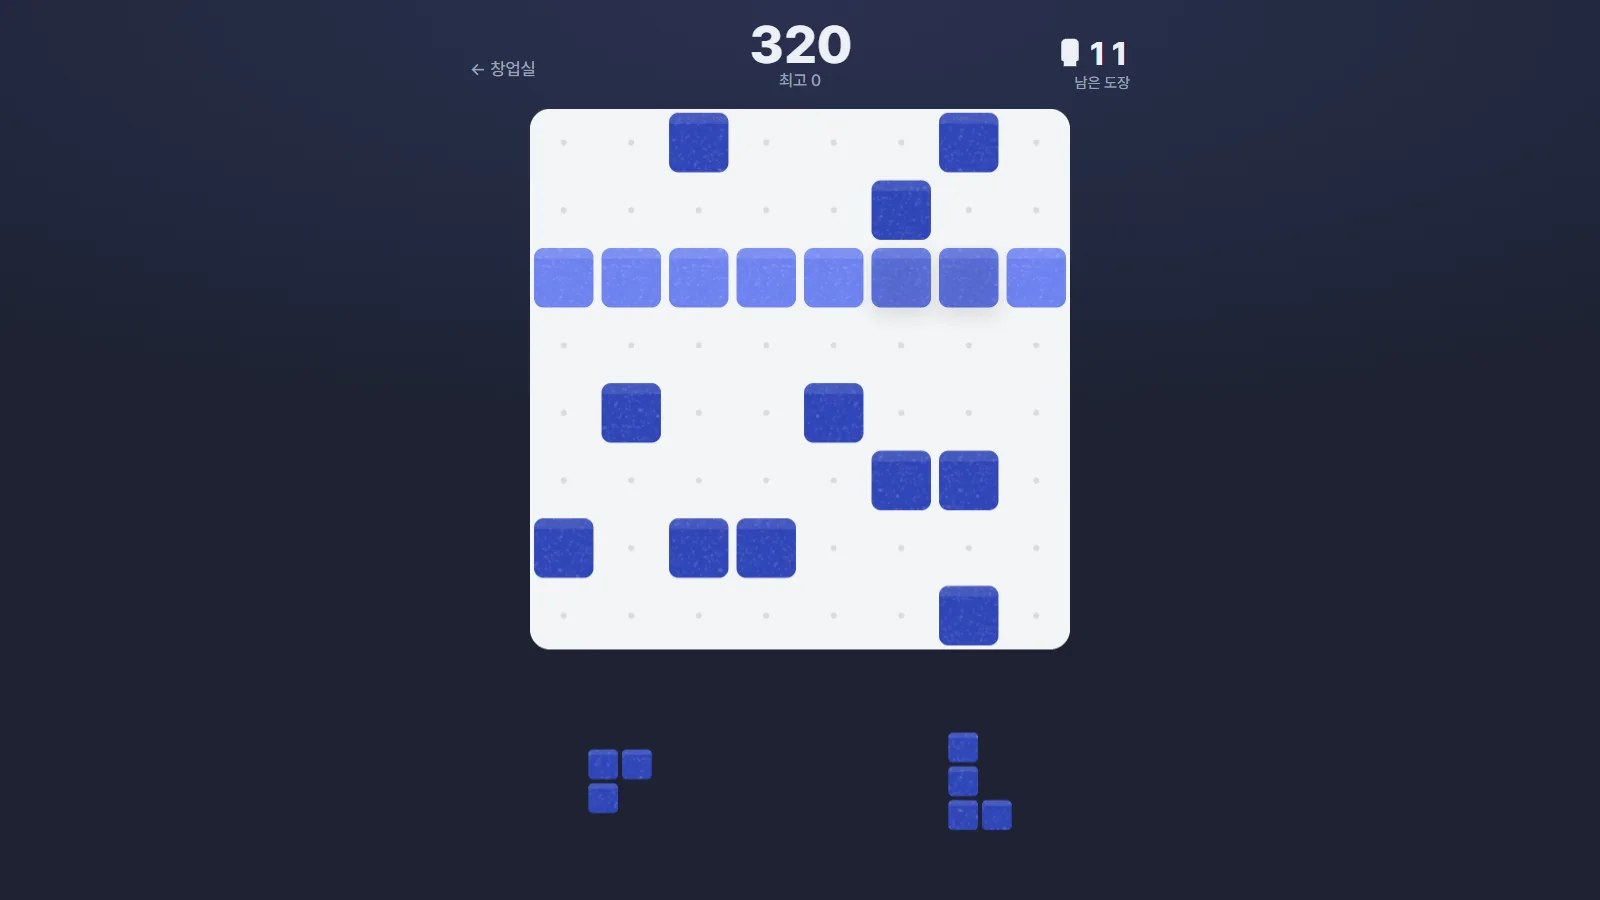
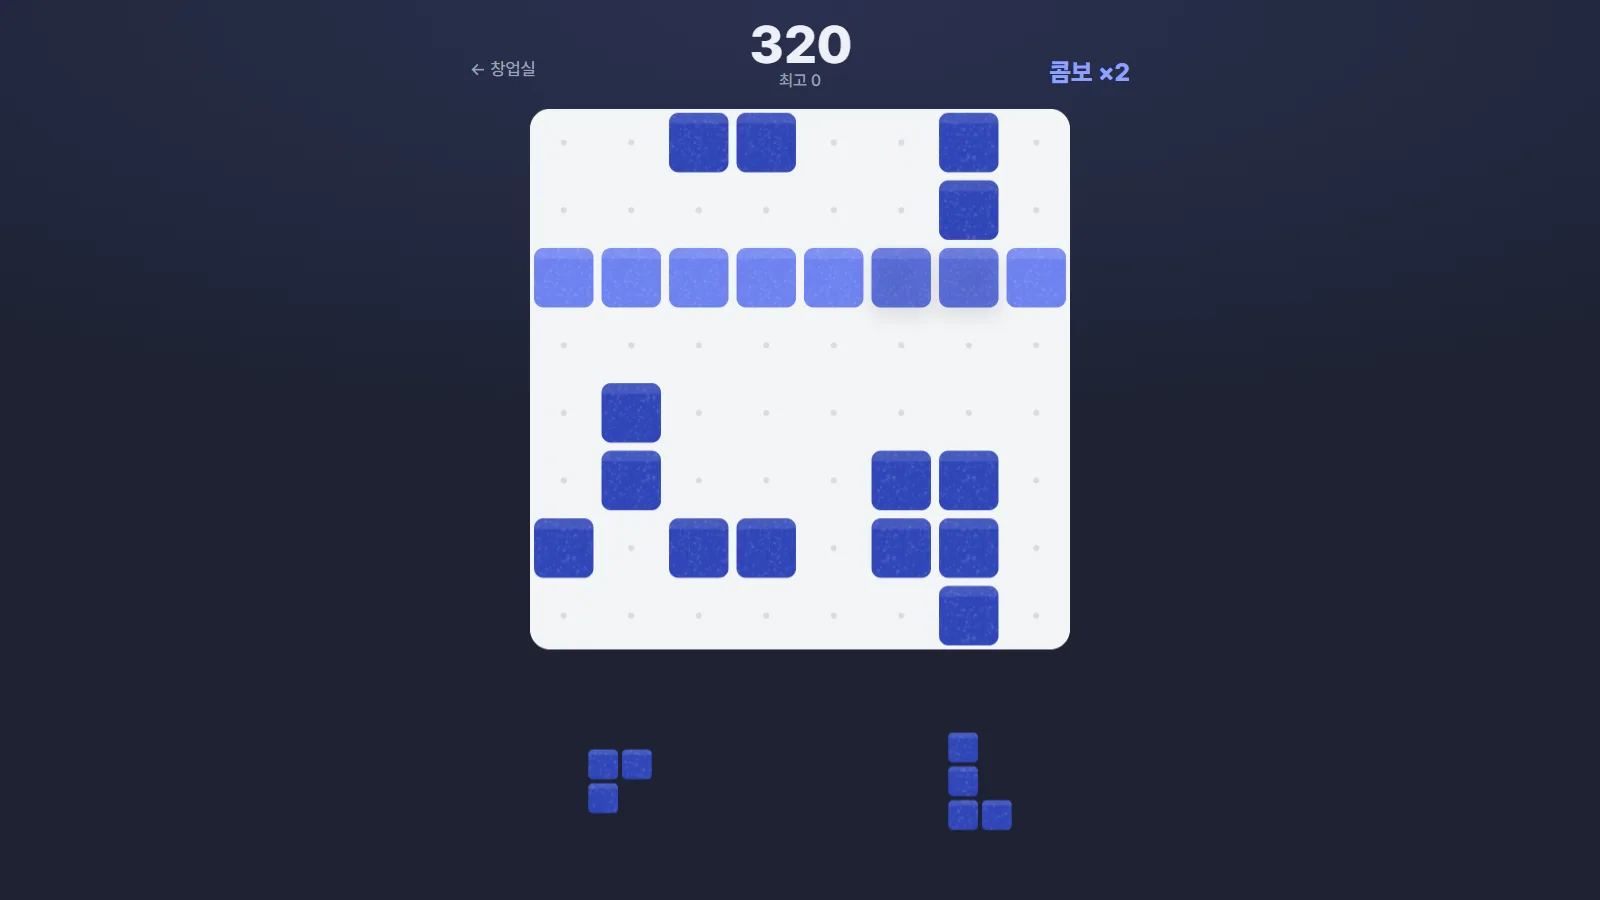
게임 데모 규칙 고침: 데칼코마니는 두 쌍 이상만 터지고 빗나가면 -3초(막 긋기 손해), 뒤집기 도장은 섞인 자리엔 못 찍고 찍을 곳이 없으면 끝 + 처음 두 수 따라 하기 + 콤보 점수 표시

diff --git a/stamp/index.html b/stamp/index.html
@@ -4,10 +4,10 @@
 <meta charset="utf-8">
 <meta name="viewport" content="width=device-width,initial-scale=1,viewport-fit=cover">
 <title>뒤집기 도장</title>
-<meta name="description" content="찍으면 칸이 뒤집히는 도장으로 한 줄을 잉크로 채워 지우는 퍼즐">
+<meta name="description" content="빈칸에 찍으면 잉크, 잉크에 찍으면 지워지는 도장으로 줄을 채우는 퍼즐. 찍을 곳이 없으면 끝">
 <link rel="stylesheet" href="https://cdn.jsdelivr.net/gh/orioncactus/pretendard@v1.3.9/dist/web/variable/pretendardvariable-dynamic-subset.min.css">
 <style>
-:root { --bg: #1d2232; --bg2: #262c40; --paper: #f3f4f6; --ink: #2f45b8; --on: #eef0f6; --soft: #9aa1b6; --red: #e0574c }
+:root { --bg: #1d2232; --paper: #f3f4f6; --ink: #2f45b8; --on: #eef0f6; --soft: #9aa1b6; --red: #e0574c }
 * { box-sizing: border-box }
 html, body { height: 100% }
 body { margin: 0; background: radial-gradient(120% 70% at 50% 0, #2a3150, var(--bg) 70%); color: var(--on); font: 500 16px/1.4 "Pretendard Variable", Pretendard, system-ui, sans-serif; -webkit-font-smoothing: antialiased; overflow: hidden; -webkit-user-select: none; user-select: none }
@@ -18,17 +18,14 @@ body { margin: 0; background: radial-gradient(120% 70% at 50% 0, #2a3150, var(--
 .score { text-align: center; line-height: 1 }
 .score b { display: block; font-weight: 800; font-size: 42px; font-variant-numeric: tabular-nums; letter-spacing: -.02em }
 .score span { font-size: 13px; color: var(--soft) }
-.left { justify-self: end; text-align: right; line-height: 1 }
-.left b { display: inline-flex; align-items: center; gap: 6px; font-size: 26px; font-weight: 800; font-variant-numeric: tabular-nums }
-.left b::before { content: ""; width: 14px; height: 18px; border-radius: 4px 4px 2px 2px; background: var(--on); box-shadow: 0 6px 0 -2px var(--on); transform: translateY(-3px) }
-.left span { display: block; font-size: 12px; color: var(--soft); margin-top: 4px }
-.left.low b { color: var(--red) } .left.low b::before { background: var(--red); box-shadow: 0 6px 0 -2px var(--red) }
-.left .gain { position: absolute; right: 100%; margin-right: 10px; top: 2px; font-size: 22px; font-weight: 800; color: #8fa2ff; animation: gain .8s forwards; pointer-events: none }
-@keyframes gain { to { transform: translateY(-18px); opacity: 0 } }
+.combo { justify-self: end; font-weight: 800; font-size: 20px; color: #8fa2ff; opacity: 0; transition: opacity .25s, transform .25s; transform: scale(.8) }
+.combo.on { opacity: 1; transform: none }
 .stage { flex: 1; min-height: 0; display: grid; place-items: center }
 .board { position: relative }
 canvas { display: block; touch-action: none }
-.ov { position: absolute; inset: 0 0 auto; display: grid; place-content: center; justify-items: center; text-align: center; gap: 14px; padding: 24px; background: rgb(29 34 50 / .8); backdrop-filter: blur(6px); -webkit-backdrop-filter: blur(6px); border-radius: 16px; transition: opacity .3s }
+.tip { position: absolute; left: 50%; top: 12px; transform: translateX(-50%); width: max-content; max-width: calc(100% - 24px); padding: 9px 16px; border-radius: 20px; background: var(--bg); color: var(--on); font-weight: 700; font-size: 15px; text-align: center; box-shadow: 0 8px 20px -8px rgb(0 0 0 / .5); pointer-events: none; transition: opacity .25s }
+.tip[hidden] { display: block; opacity: 0 }
+.ov { position: absolute; inset: 0 0 auto; display: grid; place-content: center; justify-items: center; text-align: center; gap: 14px; padding: 24px; background: rgb(29 34 50 / .84); backdrop-filter: blur(6px); -webkit-backdrop-filter: blur(6px); border-radius: 16px; transition: opacity .3s }
 .ov[hidden] { display: grid; opacity: 0; pointer-events: none }
 .ov h1 { margin: 0; font-weight: 800; font-size: clamp(40px, 11vw, 58px); letter-spacing: -.04em; line-height: 1 }
 .ov h1 span { display: inline-block; padding: 0 .12em; color: var(--paper); background: var(--ink); border-radius: 8px; transform: rotate(-4deg) }
@@ -37,6 +34,7 @@ canvas { display: block; touch-action: none }
 .ov button { margin-top: 10px; min-width: 160px; min-height: 52px; border: 0; border-radius: 26px; background: var(--paper); color: var(--bg); font: 800 17px Pretendard, system-ui, sans-serif; cursor: pointer; transition: transform .15s }
 .ov button:active { transform: scale(.96) }
 .ov button:focus-visible { outline: 2px solid var(--on); outline-offset: 3px }
+.ov .link { margin: 0; min-height: 0; min-width: 0; background: none; color: var(--soft); font-weight: 600; font-size: 14px; text-decoration: underline; text-underline-offset: 4px }
 </style>
 </head>
 <body>
@@ -44,42 +42,44 @@ canvas { display: block; touch-action: none }
   <header class="top">
     <a class="back" href="../">← 창업실</a>
     <div class="score"><b id="score">0</b><span id="best">최고 0</span></div>
-    <div class="left" id="left" style="position:relative"><b id="stamps">15</b><span>남은 도장</span></div>
+    <div class="combo" id="combo"></div>
   </header>
   <div class="stage" id="stage"><div class="board">
     <canvas id="cv" aria-label="뒤집기 도장 판"></canvas>
-    <div class="ov" id="ov">
-      <h1>뒤집기 <span>도장</span></h1>
-      <p>찍은 칸은 뒤집혀요. 한 줄을 잉크로 채우면 지워지고 도장 2개를 돌려받아요</p>
-      <button id="go">시작</button>
-    </div>
+    <div class="tip" id="tip" hidden></div>
+    <div class="ov" id="ov"></div>
   </div></div>
 </main>
 <script>
-const N = 8, START = 15, GIVE = 2;
-const C = { paper: "#f3f4f6", dot: "#d8dbe3", ink: "#2f45b8", inkHi: "#6d82f0" };
+const N = 8;
+const C = { paper: "#f3f4f6", dot: "#d8dbe3", ink: "#2f45b8", inkHi: "#6d82f0", red: "#e0574c" };
 const $ = id => document.getElementById(id);
 const cv = $("cv"), ctx = cv.getContext("2d");
 
-// 조각: 기본 모양 14개를 돌려서 겹치지 않는 33개
-const BASE = [[[0,0]],[[0,0],[1,0]],[[0,0],[1,0],[2,0]],[[0,0],[1,0],[2,0],[3,0]],[[0,0],[1,0],[2,0],[3,0],[4,0]],
+// 조각: 기본 모양 13개(한 칸짜리 없음)를 돌려서 겹치지 않는 것만
+const BASE = [[[0,0],[1,0]],[[0,0],[1,0],[2,0]],[[0,0],[1,0],[2,0],[3,0]],[[0,0],[1,0],[2,0],[3,0],[4,0]],
   [[0,0],[1,0],[0,1],[1,1]],[[0,0],[1,0],[2,0],[0,1],[1,1],[2,1],[0,2],[1,2],[2,2]],[[0,0],[1,0],[2,0],[0,1],[1,1],[2,1]],
   [[0,0],[0,1],[1,1]],[[0,0],[0,1],[0,2],[1,2]],[[1,0],[1,1],[1,2],[0,2]],[[0,0],[1,0],[2,0],[1,1]],[[1,0],[2,0],[0,1],[1,1]],[[0,0],[1,0],[1,1],[2,1]]];
 const norm = c => { const mx = Math.min(...c.map(p => p[0])), my = Math.min(...c.map(p => p[1])); return c.map(([x, y]) => [x - mx, y - my]).sort((a, b) => a[1] - b[1] || a[0] - b[0]) };
 const SHAPES = [], seen = new Set();
 for (const b of BASE) { let c = b; for (let r = 0; r < 4; r++) { c = norm(c.map(([x, y]) => [-y, x])); const k = JSON.stringify(c); if (!seen.has(k)) { seen.add(k); SHAPES.push(c) } } }
 const wOf = s => Math.max(...s.map(p => p[0])) + 1, hOf = s => Math.max(...s.map(p => p[1])) + 1;
+const rndShape = () => SHAPES[Math.random() * SHAPES.length | 0];
 
-let grid, hand, score = 0, stamps = START, playing = false, best = 0;
-let S = 40, TRAY = 0, drag = null, fx = [], pops = [], flash = [];
+let grid, hand, score = 0, combo = 0, since = 0, playing = false, best = 0, tut = 0, target = null;
+let S = 40, TRAY = 0, drag = null, fx = [], pops = [], flash = [], texts = [];
 try { best = +localStorage.getItem("stamp-best") || 0 } catch {}
 $("best").textContent = "최고 " + best;
 
-const newHand = () => hand = [0, 1, 2].map(() => SHAPES[Math.random() * SHAPES.length | 0]);
-function newBoard() {
-  grid = new Array(N * N).fill(0);
-  for (let k = 0; k < 14; k++) grid[Math.random() * N * N | 0] = 1;
-  newHand();
+// 규칙: 전부 빈칸이거나 전부 잉크인 자리에만 찍을 수 있다
+function canPlace(s, gx, gy) {
+  if (gx < 0 || gy < 0 || gx + wOf(s) > N || gy + hOf(s) > N) return false;
+  const v = grid[(gy + s[0][1]) * N + gx + s[0][0]];
+  return s.every(([x, y]) => grid[(gy + y) * N + gx + x] === v);
+}
+function fitsAnywhere(s) {
+  for (let gy = 0; gy <= N - hOf(s); gy++) for (let gx = 0; gx <= N - wOf(s); gx++) if (canPlace(s, gx, gy)) return true;
+  return false;
 }
 // 이 자리에 찍으면: 뒤집힌 판과 지워질 줄
 function tryPlace(s, gx, gy) {
@@ -94,6 +94,7 @@ function tryPlace(s, gx, gy) {
   return { g, rows, cols };
 }
 
+const LINE = [0, 10, 30, 60, 100, 150, 210];
 function place(i, gx, gy) {
   const s = hand[i], { g, rows, cols } = tryPlace(s, gx, gy), now = performance.now();
   for (const [x, y] of s) fx.push({ x: gx + x, y: gy + y, to: g[(gy + y) * N + gx + x], t0: now });
@@ -104,26 +105,27 @@ function place(i, gx, gy) {
   rows.forEach(r => flash.push({ r, t0: now + 80 })); cols.forEach(c => flash.push({ c, t0: now + 80 }));
   grid = g; hand[i] = null;
   const n = rows.length + cols.length;
-  score += s.length + n * n * 40;
-  stamps -= 1;
+  let pts = s.length;
   if (n) {
-    const gain = n * GIVE + (n > 1 ? n - 1 : 0);
-    stamps += gain;
-    const el = document.createElement("i"); el.className = "gain"; el.textContent = "+" + gain;
-    $("left").append(el); setTimeout(() => el.remove(), 800);
+    combo++; since = 0;
+    const got = LINE[Math.min(n, 6)] * combo;
+    pts += got;
+    let cx = 0, cy = 0; cleared.forEach(k => { cx += k % N; cy += k / N | 0 });
+    texts.push({ x: cx / cleared.size, y: cy / cleared.size, s: "+" + got, sub: combo > 1 ? "콤보 ×" + combo : n > 1 ? n + "줄" : "", t0: now + 150 });
     try { navigator.vibrate && navigator.vibrate(n > 1 ? [20, 40, 30] : 20) } catch {}
-  }
+  } else if (++since >= 3) combo = 0;
+  score += pts;
   $("score").textContent = score;
-  $("stamps").textContent = stamps;
-  $("left").classList.toggle("low", stamps <= 3);
-  if (hand.every(h => !h)) newHand();
-  if (stamps <= 0) setTimeout(end, 650);
+  $("combo").textContent = "콤보 ×" + combo;
+  $("combo").classList.toggle("on", combo > 1);
+  if (tut) return tutNext();
+  if (hand.every(h => !h)) hand = [rndShape(), rndShape(), rndShape()];
+  if (!hand.some(h => h && fitsAnywhere(h))) { playing = false; setTimeout(end, 900) }
 }
 
 // 그리기
 let grain;
 function makeGrain() {
-  // 도장 잉크 결: 고르지 않은 점
   const c = document.createElement("canvas"); c.width = c.height = 64;
   const g = c.getContext("2d");
   for (let i = 0; i < 420; i++) { g.fillStyle = `rgb(255 255 255 / ${Math.random() * .16})`; g.fillRect(Math.random() * 64, Math.random() * 64, 1.4, 1.4) }
@@ -138,6 +140,7 @@ function inkCell(x, y, s, a = 1, k = 1, col = C.ink) {
   ctx.fillStyle = "rgb(255 255 255 / .1)"; rr(x + o, y + o, w, w * .18, [s * .14, s * .14, 0, 0]); ctx.fill();
   ctx.globalAlpha = 1;
 }
+// 끌고 있는 조각이 놓일 칸(판 밖이면 null)과 놓을 수 있는지
 function hoverCell() {
   if (!drag) return null;
   const s = hand[drag.i], w = wOf(s), h = hOf(s);
@@ -145,15 +148,15 @@ function hoverCell() {
   let gx = Math.round(left / S), gy = Math.round(top / S);
   if (gx < -1 || gy < -1 || gx > N - w + 1 || gy > N - h + 1) return null;
   gx = Math.max(0, Math.min(N - w, gx)); gy = Math.max(0, Math.min(N - h, gy));
-  return { gx, gy, left, top };
+  const ok = canPlace(s, gx, gy) && (!target || (gx === target.gx && gy === target.gy));
+  return { gx, gy, ok };
 }
 function slotRect(i) { const w = N * S / 3; return [i * w, N * S + S * .5, w, TRAY] }
 function draw(now) {
   const W = N * S;
   ctx.clearRect(0, 0, cv.width, cv.height);
-  // 종이 판
   ctx.fillStyle = C.paper; rr(0, 0, W, W, 16); ctx.fill();
-  const hv = hoverCell(), pre = hv && tryPlace(hand[drag.i], hv.gx, hv.gy);
+  const hv = hoverCell(), pre = hv && hv.ok && tryPlace(hand[drag.i], hv.gx, hv.gy);
   const willClear = new Set();
   if (pre) { pre.rows.forEach(r => { for (let j = 0; j < N; j++) willClear.add(r * N + j) }); pre.cols.forEach(c => { for (let j = 0; j < N; j++) willClear.add(j * N + c) }) }
   for (let y = 0; y < N; y++) for (let x = 0; x < N; x++) {
@@ -168,9 +171,14 @@ function draw(now) {
     else if (grid[k]) inkCell(X, Y, S);
     else { ctx.fillStyle = C.dot; ctx.beginPath(); ctx.arc(X + S / 2, Y + S / 2, Math.max(1.5, S * .045), 0, 7); ctx.fill() }
   }
-  // 놓을 자리 미리보기: 잉크가 될 칸은 옅은 잉크, 하얗게 될 칸은 구멍
-  if (pre) for (const [x, y] of hand[drag.i]) {
+  // 따라 하기: 찍을 자리를 깜빡여 보여 준다
+  if (target && !drag) {
+    ctx.strokeStyle = `rgb(224 87 76 / ${.55 + .45 * Math.sin(now / 180)})`; ctx.lineWidth = 3;
+    for (const [x, y] of hand[target.i] || []) { rr((target.gx + x) * S + 3, (target.gy + y) * S + 3, S - 6, S - 6, S * .16); ctx.stroke() }
+  }
+  if (hv) for (const [x, y] of hand[drag.i]) {
     const X = (hv.gx + x) * S, Y = (hv.gy + y) * S;
+    if (!hv.ok) { ctx.strokeStyle = C.red; ctx.lineWidth = 3; rr(X + 4, Y + 4, S - 8, S - 8, S * .14); ctx.stroke(); continue }
     if (willClear.has((hv.gy + y) * N + hv.gx + x)) continue;
     if (grid[(hv.gy + y) * N + hv.gx + x]) { ctx.fillStyle = C.paper; rr(X + S * .22, Y + S * .22, S * .56, S * .56, S * .1); ctx.fill() }
     else inkCell(X, Y, S, .38);
@@ -184,11 +192,22 @@ function draw(now) {
   pops = pops.filter(p => now - p.t0 < 360);
   for (const p of pops) { const t = (now - p.t0) / 360; if (t < 0) { inkCell(p.x * S, p.y * S, S); continue } inkCell(p.x * S, p.y * S - t * S * .3, S, 1 - t, 1 + .3 * t) }
   fx = fx.filter(e => now - e.t0 < 260);
-  // 조각 칸
+  texts = texts.filter(t => now - t.t0 < 1000);
+  for (const t of texts) {
+    const k = (now - t.t0) / 1000; if (k < 0) continue;
+    const X = Math.min(W - S * 1.4, Math.max(S * 1.4, (t.x + .5) * S)), Y = (t.y + .5) * S - k * S * .6;
+    ctx.globalAlpha = k < .7 ? 1 : 1 - (k - .7) / .3;
+    ctx.textAlign = "center"; ctx.textBaseline = "middle"; ctx.lineJoin = "round";
+    ctx.font = `800 ${S * .72}px Pretendard, system-ui, sans-serif`;
+    ctx.lineWidth = 6; ctx.strokeStyle = C.paper; ctx.strokeText(t.s, X, Y); ctx.fillStyle = C.ink; ctx.fillText(t.s, X, Y);
+    if (t.sub) { ctx.font = `800 ${S * .4}px Pretendard, system-ui, sans-serif`; ctx.strokeText(t.sub, X, Y + S * .6); ctx.fillStyle = C.red; ctx.fillText(t.sub, X, Y + S * .6) }
+    ctx.globalAlpha = 1;
+  }
+  // 조각 칸: 어디에도 못 찍는 조각은 흐리게
   for (let i = 0; i < 3; i++) {
     const s = hand[i]; if (!s || (drag && drag.i === i)) continue;
-    const [sx, sy, sw, sh] = slotRect(i), cs = S * .5, w = wOf(s) * cs, h = hOf(s) * cs;
-    for (const [x, y] of s) inkCell(sx + (sw - w) / 2 + x * cs, sy + (sh - h) / 2 + y * cs, cs);
+    const [sx, sy, sw, sh] = slotRect(i), cs = S * .5, w = wOf(s) * cs, h = hOf(s) * cs, a = fitsAnywhere(s) ? 1 : .28;
+    for (const [x, y] of s) inkCell(sx + (sw - w) / 2 + x * cs, sy + (sh - h) / 2 + y * cs, cs, a);
   }
   if (drag) {
     const s = hand[drag.i], w = wOf(s), h = hOf(s);
@@ -230,25 +249,65 @@ cv.addEventListener("pointerup", () => {
   if (!drag) return;
   const hv = hoverCell(), i = drag.i;
   drag = null;
-  if (hv && playing) place(i, hv.gx, hv.gy);
+  if (hv && hv.ok && playing) place(i, hv.gx, hv.gy);
 });
 cv.addEventListener("pointercancel", () => drag = null);
 
+// 처음 한 번: 두 수를 따라 해 보며 규칙을 익힌다
+const H3 = [[0, 0], [1, 0], [2, 0]], O2 = [[0, 0], [1, 0], [0, 1], [1, 1]];
+function tip(t) { $("tip").textContent = t || ""; $("tip").hidden = !t }
+function tutStep(n) {
+  tut = n; grid = new Array(N * N).fill(0);
+  if (n === 1) {
+    [0, 1, 5, 6, 7].forEach(x => grid[4 * N + x] = 1);
+    hand = [null, H3, null]; target = { i: 1, gx: 2, gy: 4 };
+    tip("빈칸에 찍으면 잉크. 한 줄을 채우면 지워져요");
+  } else {
+    [[2, 2], [3, 2], [2, 3], [3, 3], [5, 5], [6, 5], [5, 6], [6, 6]].forEach(([x, y]) => grid[y * N + x] = 1);
+    hand = [null, O2, null]; target = { i: 1, gx: 2, gy: 2 };
+    tip("잉크 위에 찍으면 거꾸로 지워져요");
+  }
+}
+function tutNext() {
+  if (tut === 1) return setTimeout(() => tutStep(2), 900);
+  tut = 0; target = null; playing = false;
+  try { localStorage.setItem("stamp-tut", 1) } catch {}
+  setTimeout(() => {
+    tip("");
+    menu(`<p style="color:var(--on);font-weight:700">빈칸과 잉크가 섞인 자리엔 못 찍어요.<br>찍을 곳이 없으면 끝나요.</p><button id="go">시작</button>`);
+  }, 900);
+}
+
+function reset() {
+  score = 0; combo = 0; since = 0; fx = []; pops = []; flash = []; texts = [];
+  $("score").textContent = 0; $("combo").classList.remove("on");
+}
 function start() {
-  newBoard(); score = 0; stamps = START; fx = []; pops = []; flash = [];
-  $("score").textContent = 0; $("stamps").textContent = stamps; $("left").classList.remove("low");
+  reset(); tut = 0; target = null; tip("");
+  grid = new Array(N * N).fill(0);
+  hand = [rndShape(), rndShape(), rndShape()];
   $("ov").hidden = true; playing = true;
+}
+function lesson() { reset(); tutStep(1); $("ov").hidden = true; playing = true }
+function menu(html) {
+  $("ov").innerHTML = html; $("ov").hidden = false;
+  $("go").onclick = start;
+  if ($("how")) $("how").onclick = lesson;
 }
 function end() {
   playing = false; drag = null;
   if (score > best) { best = score; try { localStorage.setItem("stamp-best", best) } catch {} }
   $("best").textContent = "최고 " + best;
-  $("ov").innerHTML = `<p>점수</p><div class="big">${score}</div><p>최고 ${best}</p><button id="go">다시</button>`;
-  $("go").onclick = start;
-  $("ov").hidden = false;
+  menu(`<p style="color:var(--on);font-weight:700">찍을 곳이 없어요</p><div class="big">${score}</div><p>최고 ${best}</p><button id="go">다시</button>`);
 }
-$("go").onclick = start;
-size(); newBoard(); requestAnimationFrame(loop);
+
+let learned = false;
+try { learned = !!localStorage.getItem("stamp-tut") } catch {}
+size();
+grid = new Array(N * N).fill(0); hand = [null, null, null];
+menu(`<h1>뒤집기 <span>도장</span></h1><p>빈칸에 찍으면 잉크, 잉크에 찍으면 지워져요</p><button id="go">시작</button>${learned ? '<button class="link" id="how">방법 다시 보기</button>' : ""}`);
+if (!learned) $("go").onclick = lesson;
+requestAnimationFrame(loop);
 </script>
 </body>
 </html>

diff --git a/decal/index.html b/decal/index.html
@@ -51,13 +51,13 @@ canvas { display: block; background: var(--paper); border-radius: 20px; box-shad
     <canvas id="cv" aria-label="데칼코마니 판"></canvas>
     <div class="ov" id="ov">
       <h1>데칼<b>코마니</b></h1>
-      <p id="msg">선을 그어 반으로 접으면, 똑같이 겹치는 색이 터져요</p>
+      <p id="msg">선을 그어 반으로 접었을 때 같은 색이 두 쌍 이상 겹치면 터져요. 많이 겹칠수록 점수가 커져요</p>
       <button id="go">시작</button>
     </div>
   </div></div>
 </main>
 <script>
-const N = 8, TIME = 60, DENSITY = 0.45;
+const N = 8, TIME = 60, DENSITY = 0.45, MIN = 2, PENALTY = 3;
 const COLORS = ["#2f6be0", "#e4473f", "#21985f", "#8a55e8", "#f08a24"];
 const $ = id => document.getElementById(id);
 const cv = $("cv"), ctx = cv.getContext("2d");
@@ -121,7 +121,7 @@ function refill() {
     grid[i] = Math.random() * COLORS.length | 0;
     born[i] = now + Math.random() * 160;
   }
-  if (Math.max(...AXES.map(a => pairsFor(a).length)) < 3) plant();
+  if (Math.max(...AXES.map(a => pairsFor(a).length)) < 4) plant();
 }
 function newBoard() {
   grid = new Array(N * N).fill(-1);
@@ -151,8 +151,11 @@ function axisEnds(ax) {
 
 function fold(ax) {
   const ps = pairsFor(ax), now = performance.now();
-  if (!ps.length) {
-    miss = now; left = Math.max(0, left - 2);
+  if (ps.length < MIN) {
+    // 한 쌍뿐이면 그 쌍을 깜빡여 보여 주고, 시간만 깎인다
+    miss = now; missPairs = ps; left = Math.max(0, left - PENALTY);
+    const [x1, y1, x2, y2] = axisEnds(ax), cx = Math.min(N - 1.5, Math.max(.5, (x1 + x2) / 2)), cy = Math.min(N - 1, Math.max(.5, (y1 + y2) / 2));
+    texts.push({ x: cx, y: cy, s: "-" + PENALTY + "초", red: true, t0: now });
     cv.classList.remove("shake"); void cv.offsetWidth; cv.classList.add("shake");
     return;
   }
@@ -164,7 +167,7 @@ function fold(ax) {
   score += pts; $("score").textContent = score;
   let cx = 0, cy = 0;
   ps.forEach(p => { cx += p[2]; cy += p[3] });
-  texts.push({ x: cx / n, y: cy / n, s: "+" + pts, big: n >= 3, t0: now + 220 });
+  texts.push({ x: cx / n, y: cy / n, s: "+" + pts, sub: n + "쌍", big: n >= 3, t0: now + 220 });
   try { navigator.vibrate && navigator.vibrate(n >= 3 ? [20, 40, 30] : 15) } catch {}
   setTimeout(() => playing && refill(), 520);
 }
@@ -216,6 +219,10 @@ function draw(now) {
   }
   if (axis) line(axis, "rgb(28 27 25 / .5)", 3, [8, 8]);
   if (now - miss < 320 && missAx) line(missAx, "rgb(216 68 60 / " + (1 - (now - miss) / 320) + ")", 4);
+  if (now - miss < 600) for (const [x, y, mx, my] of missPairs) for (const [a, b] of [[x, y], [mx, my]]) {
+    ctx.strokeStyle = `rgb(216 68 60 / ${Math.abs(Math.sin((now - miss) / 600 * Math.PI * 3))})`; ctx.lineWidth = 3;
+    ctx.beginPath(); ctx.arc(px(a), px(b), S * .44, 0, 7); ctx.stroke();
+  }
   anims = anims.filter(a => now - a.t0 < 760);
   for (const a of anims) {
     const t = (now - a.t0) / 760;
@@ -241,11 +248,12 @@ function draw(now) {
     ctx.textAlign = "center"; ctx.textBaseline = "middle";
     ctx.lineWidth = 5; ctx.strokeStyle = "#fbfaf7"; ctx.lineJoin = "round";
     const yy = px(t.y) - S * .5 - k * S * .7;
-    ctx.strokeText(t.s, px(t.x), yy); ctx.fillStyle = "#1c1b19"; ctx.fillText(t.s, px(t.x), yy);
+    ctx.strokeText(t.s, px(t.x), yy); ctx.fillStyle = t.red ? "#d8443c" : "#1c1b19"; ctx.fillText(t.s, px(t.x), yy);
+    if (t.sub) { ctx.font = `700 ${S * .36}px Pretendard, system-ui, sans-serif`; ctx.strokeText(t.sub, px(t.x), yy + S * .55); ctx.fillStyle = "#6f6c66"; ctx.fillText(t.sub, px(t.x), yy + S * .55) }
     ctx.globalAlpha = 1;
   }
 }
-let missAx = null, lastAx = null, lastT = 0;
+let missAx = null, missPairs = [], lastAx = null, lastT = 0;
 
 function loop(now) {
   if (playing) {
@@ -275,7 +283,7 @@ cv.addEventListener("pointermove", e => { if (drag) axis = snap(drag, cell(e)) }
 const up = () => {
   if (drag && axis && playing) {
     const ps = pairsFor(axis).length;
-    if (ps) { lastAx = axis; lastT = performance.now() } else missAx = axis;
+    if (ps >= MIN) { lastAx = axis; lastT = performance.now() } else missAx = axis;
     fold(axis);
   }
   drag = null; axis = null;

diff --git a/index.html b/index.html
@@ -303,7 +303,7 @@ figcaption { margin-top: 10px; color: var(--muted) }
     <a class="art mask" href="decal/"><img src="hub/shots/decal.webp" alt="데칼코마니 판, 가로선으로 접힌 자리에서 보라색 점 짝이 물감처럼 터지는 순간" width="1600" height="900" loading="lazy"></a>
     <div class="txt">
       <h3 class="rise">데칼코마니</h3>
-      <p class="rise" style="--i:1">선을 하나 그어 판을 반으로 접으면, 똑같이 겹치는 색 점이 짝으로 터지는 60초 퍼즐. 한 번에 여러 쌍을 터뜨릴수록 점수가 크게 뜁니다.</p>
+      <p class="rise" style="--i:1">선을 하나 그어 판을 반으로 접었을 때 같은 색 점이 두 쌍 이상 겹치면 터지는 60초 퍼즐. 빗나가면 3초가 깎이고, 한 번에 많이 겹칠수록 점수가 크게 뜁니다.</p>
       <p class="meta mono rise" style="--i:2">HTML 캔버스 · 60초 퍼즐 · 데모</p>
       <a class="more rise" style="--i:3" href="decal/">바로 하기 <span class="ic" data-icon="arrow-right" data-size="18">→</span></a>
     </div>
@@ -313,7 +313,7 @@ figcaption { margin-top: 10px; color: var(--muted) }
     <a class="art mask" href="stamp/"><img src="hub/shots/stamp.webp" alt="뒤집기 도장 판, 조각을 끌어다 대자 지워질 한 줄이 밝게 표시된 모습" width="1600" height="900" loading="lazy"></a>
     <div class="txt">
       <h3 class="rise">뒤집기 도장</h3>
-      <p class="rise" style="--i:1">찍은 칸이 뒤집히는 도장으로 가로·세로 한 줄을 잉크로 채우는 퍼즐. 잉크 위에 찍으면 오히려 지워지고, 줄을 지울 때마다 도장을 돌려받습니다.</p>
+      <p class="rise" style="--i:1">빈칸에 찍으면 잉크, 잉크에 찍으면 지워지는 도장으로 가로·세로 한 줄을 채우는 퍼즐. 섞인 자리엔 못 찍어서, 판이 얼룩덜룩해지면 막혀 끝납니다.</p>
       <p class="meta mono rise" style="--i:2">HTML 캔버스 · 배치 퍼즐 · 데모</p>
       <a class="more rise" style="--i:3" href="stamp/">바로 하기 <span class="ic" data-icon="arrow-right" data-size="18">→</span></a>
     </div>
